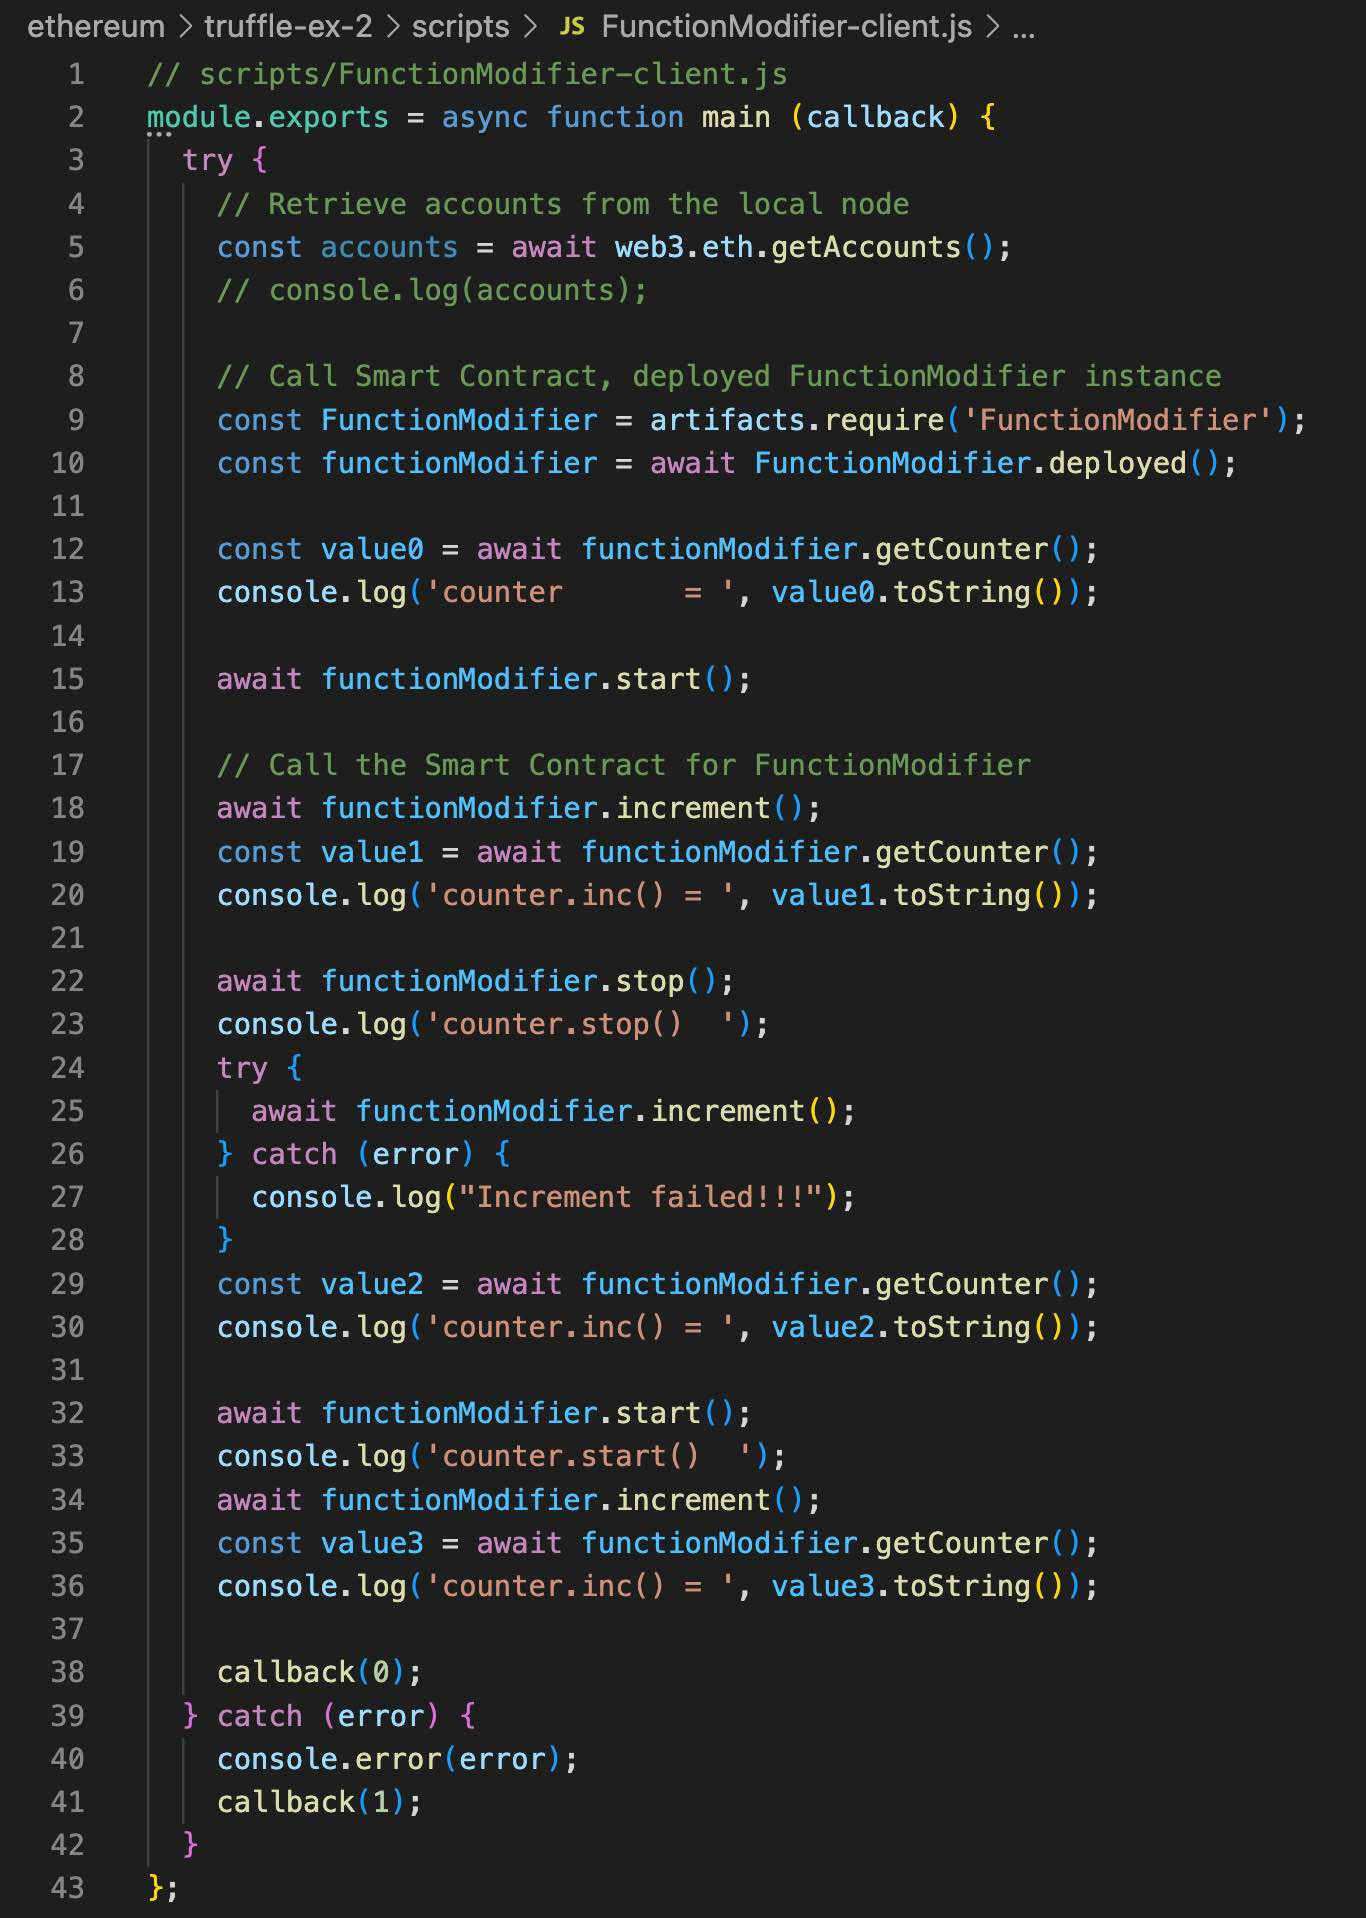
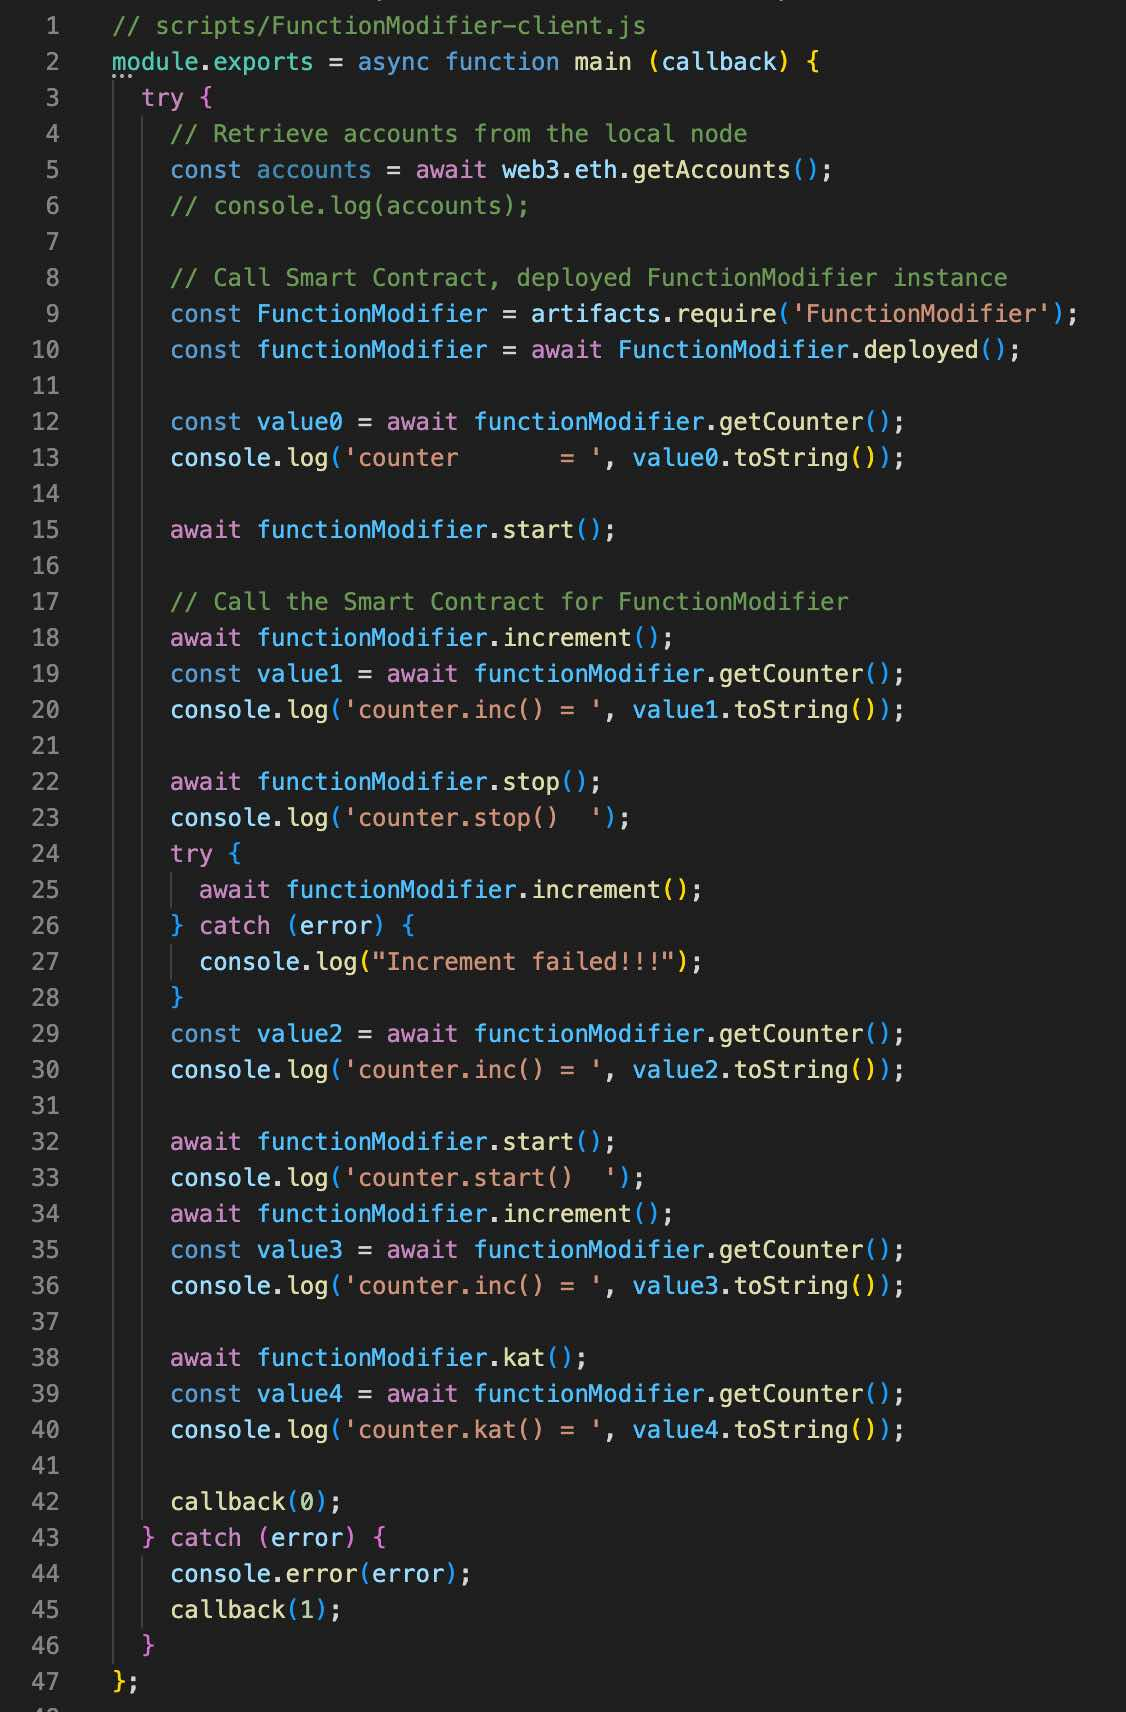
More Solidity Examples in Truffle

Changed region(s): [[0.0311, 0.0, 0.9014, 1.0]]

diff --git a/ethereum/truffle-ex-2/scripts/FunctionModifier-client.js b/ethereum/truffle-ex-2/scripts/FunctionModifier-client.js
@@ -35,6 +35,10 @@ module.exports = async function main (callback) {
     const value3 = await functionModifier.getCounter();
     console.log('counter.inc() = ', value3.toString());
 
+    await functionModifier.kat();
+    const value4 = await functionModifier.getCounter();
+    console.log('counter.kat() = ', value4.toString());
+
     callback(0);
   } catch (error) {
     console.error(error);
